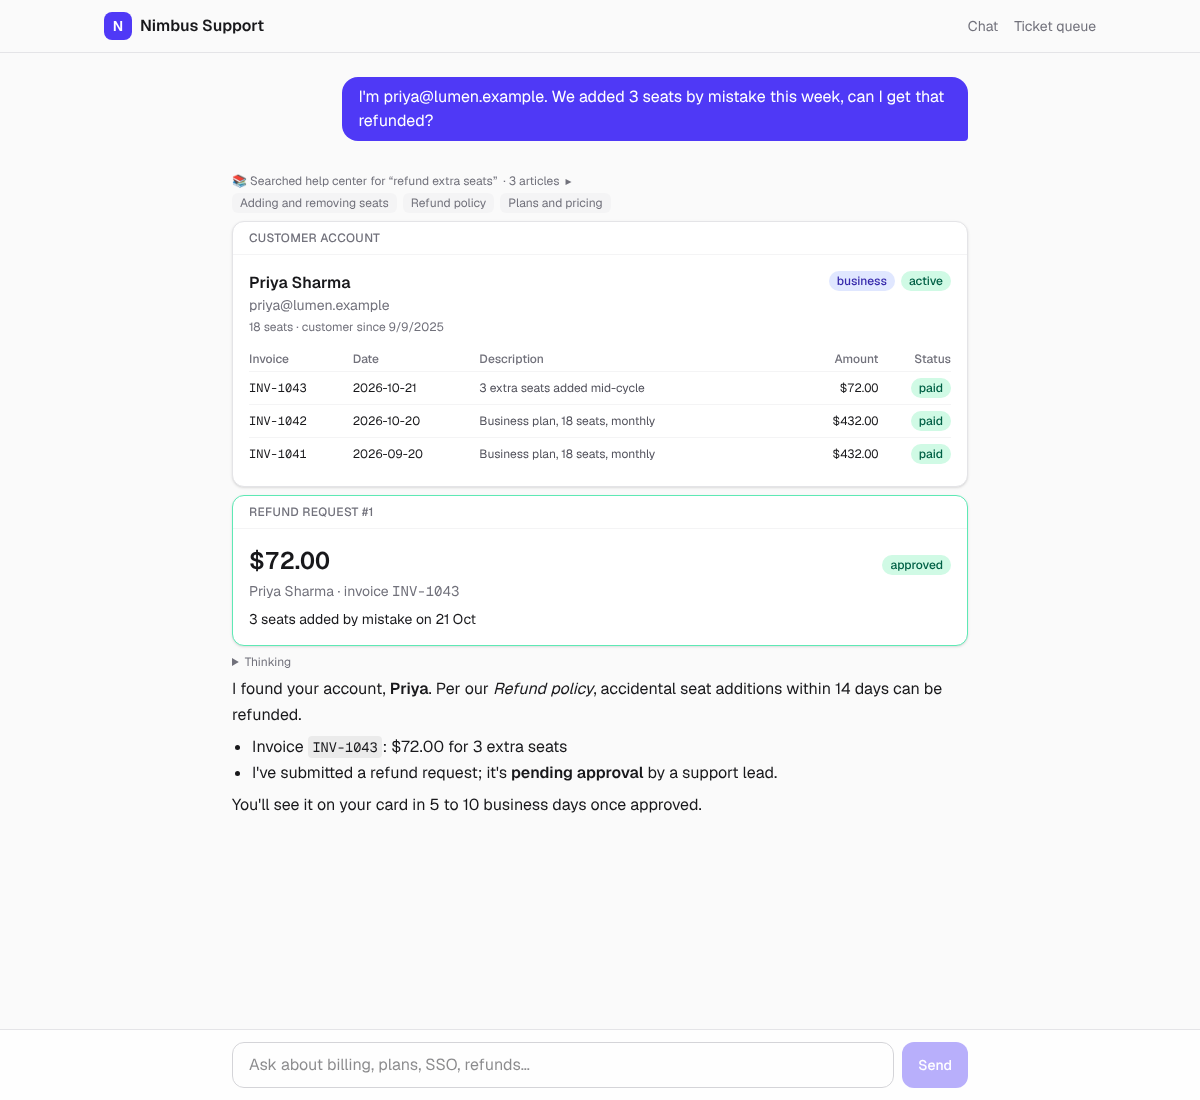
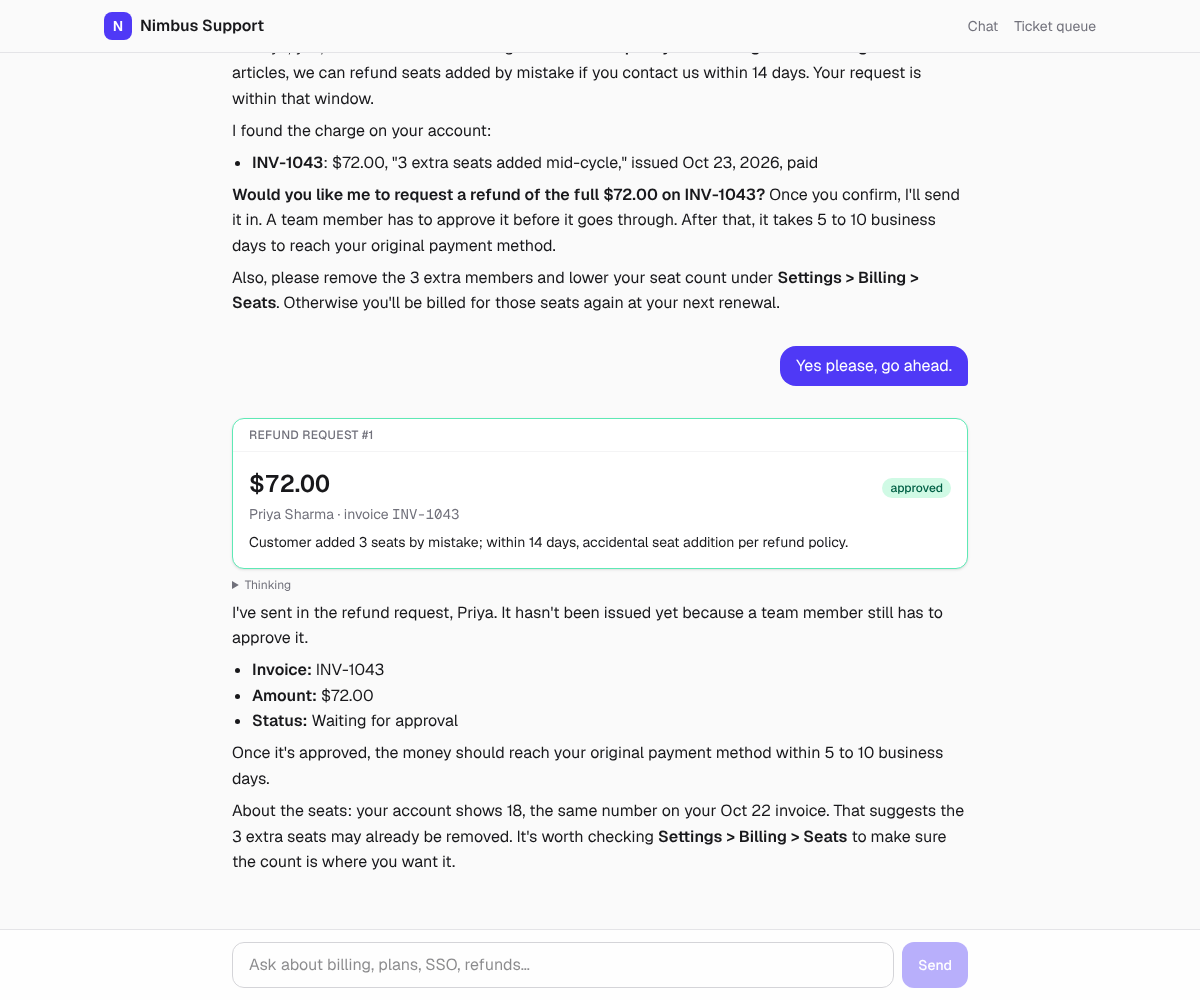
Let the agent see refund approval status; live screenshots
The agent only knew refunds as pending from its own earlier tool output, so after a
person approved one it still said it was waiting. lookup_customer now returns current
refund statuses and the prompt says to re-check before reporting one.

Claude-Session: https://claude.ai/code/session_011jCK94GDAaKd8bS6LPbZmb

diff --git a/web/src/lib/types.ts b/web/src/lib/types.ts
@@ -51,7 +51,7 @@ export type HelpdeskTools = {
   lookup_customer: {
     input: { email: string };
     output:
-      | { found: true; customer: Customer; invoices: Invoice[] }
+      | { found: true; customer: Customer; invoices: Invoice[]; refunds: Pick<Refund, "id" | "invoice_id" | "amount_usd" | "status">[] }
       | { found: false; email: string }
       | ToolError;
   };

diff --git a/api/app/helpdesk/tools.py b/api/app/helpdesk/tools.py
@@ -66,6 +66,7 @@ def helpdesk_tools(
         if c is None:
             return {"found": False, "email": args.email}
         invoices = await repo.invoices_for(c["id"])
+        refunds = await repo.refunds_for(c["id"])
         return {
             "found": True,
             "customer": {**c, "created_at": c["created_at"].isoformat()},
@@ -79,6 +80,15 @@ def helpdesk_tools(
                     "issued_on": i["issued_on"].isoformat(),
                 }
                 for i in invoices
+            ],
+            "refunds": [
+                {
+                    "id": r["id"],
+                    "invoice_id": r["invoice_id"],
+                    "amount_usd": _money(r["amount_cents"]),
+                    "status": r["status"],
+                }
+                for r in refunds
             ],
         }
 
@@ -140,7 +150,8 @@ def helpdesk_tools(
         ),
         Tool(
             "lookup_customer",
-            "Look up a customer account by email: plan, seats, status and recent invoices.",
+            "Look up a customer account by email: plan, seats, status, recent invoices, and the "
+            "current status of their refund requests.",
             CustomerIn,
             lookup_customer,
         ),

diff --git a/api/app/main.py b/api/app/main.py
@@ -27,6 +27,8 @@ How you work:
   it, then use lookup_customer or get_invoice. Never invent account details.
 - Refunds: check the invoice, confirm the amount with the customer, then call propose_refund.
   A refund is only pending until a human approves it; never tell the customer it is done.
+  Its status can change after you propose it, so call lookup_customer again before telling the
+  customer whether a refund was approved.
   If the tool reports a policy violation, explain the policy and offer to escalate.
 - Call escalate_to_human when the customer asks for a person, for bugs or outages you can't fix,
   for 2FA resets, or when policy blocks what they need. Tell them the ticket number.

diff --git a/api/app/helpdesk/repo.py b/api/app/helpdesk/repo.py
@@ -40,6 +40,14 @@ class HelpdeskRepo:
             (customer_id, limit),
         )
 
+    async def refunds_for(self, customer_id: str) -> list[dict[str, Any]]:
+        return await self._all(
+            "SELECT r.id, r.invoice_id, r.amount_cents, r.reason, r.status, r.created_at "
+            "FROM refunds r JOIN invoices i ON i.id = r.invoice_id "
+            "WHERE i.customer_id = %s ORDER BY r.created_at DESC",
+            (customer_id,),
+        )
+
     async def get_invoice(self, invoice_id: str) -> dict[str, Any] | None:
         return await self._one(
             "SELECT i.*, c.email, c.name AS customer_name, "

diff --git a/api/tests/test_helpdesk.py b/api/tests/test_helpdesk.py
@@ -39,6 +39,8 @@ async def test_refund_within_window_is_pending_until_approved(seeded):
     decided = await repo.decide_refund(r["id"], approve=True)
     assert decided and decided["status"] == "approved"
     assert await repo.decide_refund(r["id"], approve=False) is None  # can't decide twice
+    [listed] = await repo.refunds_for("cus_001")
+    assert listed["status"] == "approved"
 
 
 @pytest.mark.parametrize(

diff --git a/README.md b/README.md
@@ -6,9 +6,9 @@ human approves, and escalates to a human queue with a machine-triaged ticket.
 
 **Live demo:** _add your Vercel URL here_
 
-| Chat with generative UI | Mobile |
+| Refund with human approval | Escalation with structured triage |
 |---|---|
-| ![chat](docs/screenshot-chat.png) | ![mobile](docs/screenshot-mobile.png) |
+| ![chat](docs/screenshot-chat.png) | ![escalation](docs/screenshot-escalation.png) |
 
 ## What it shows
 
